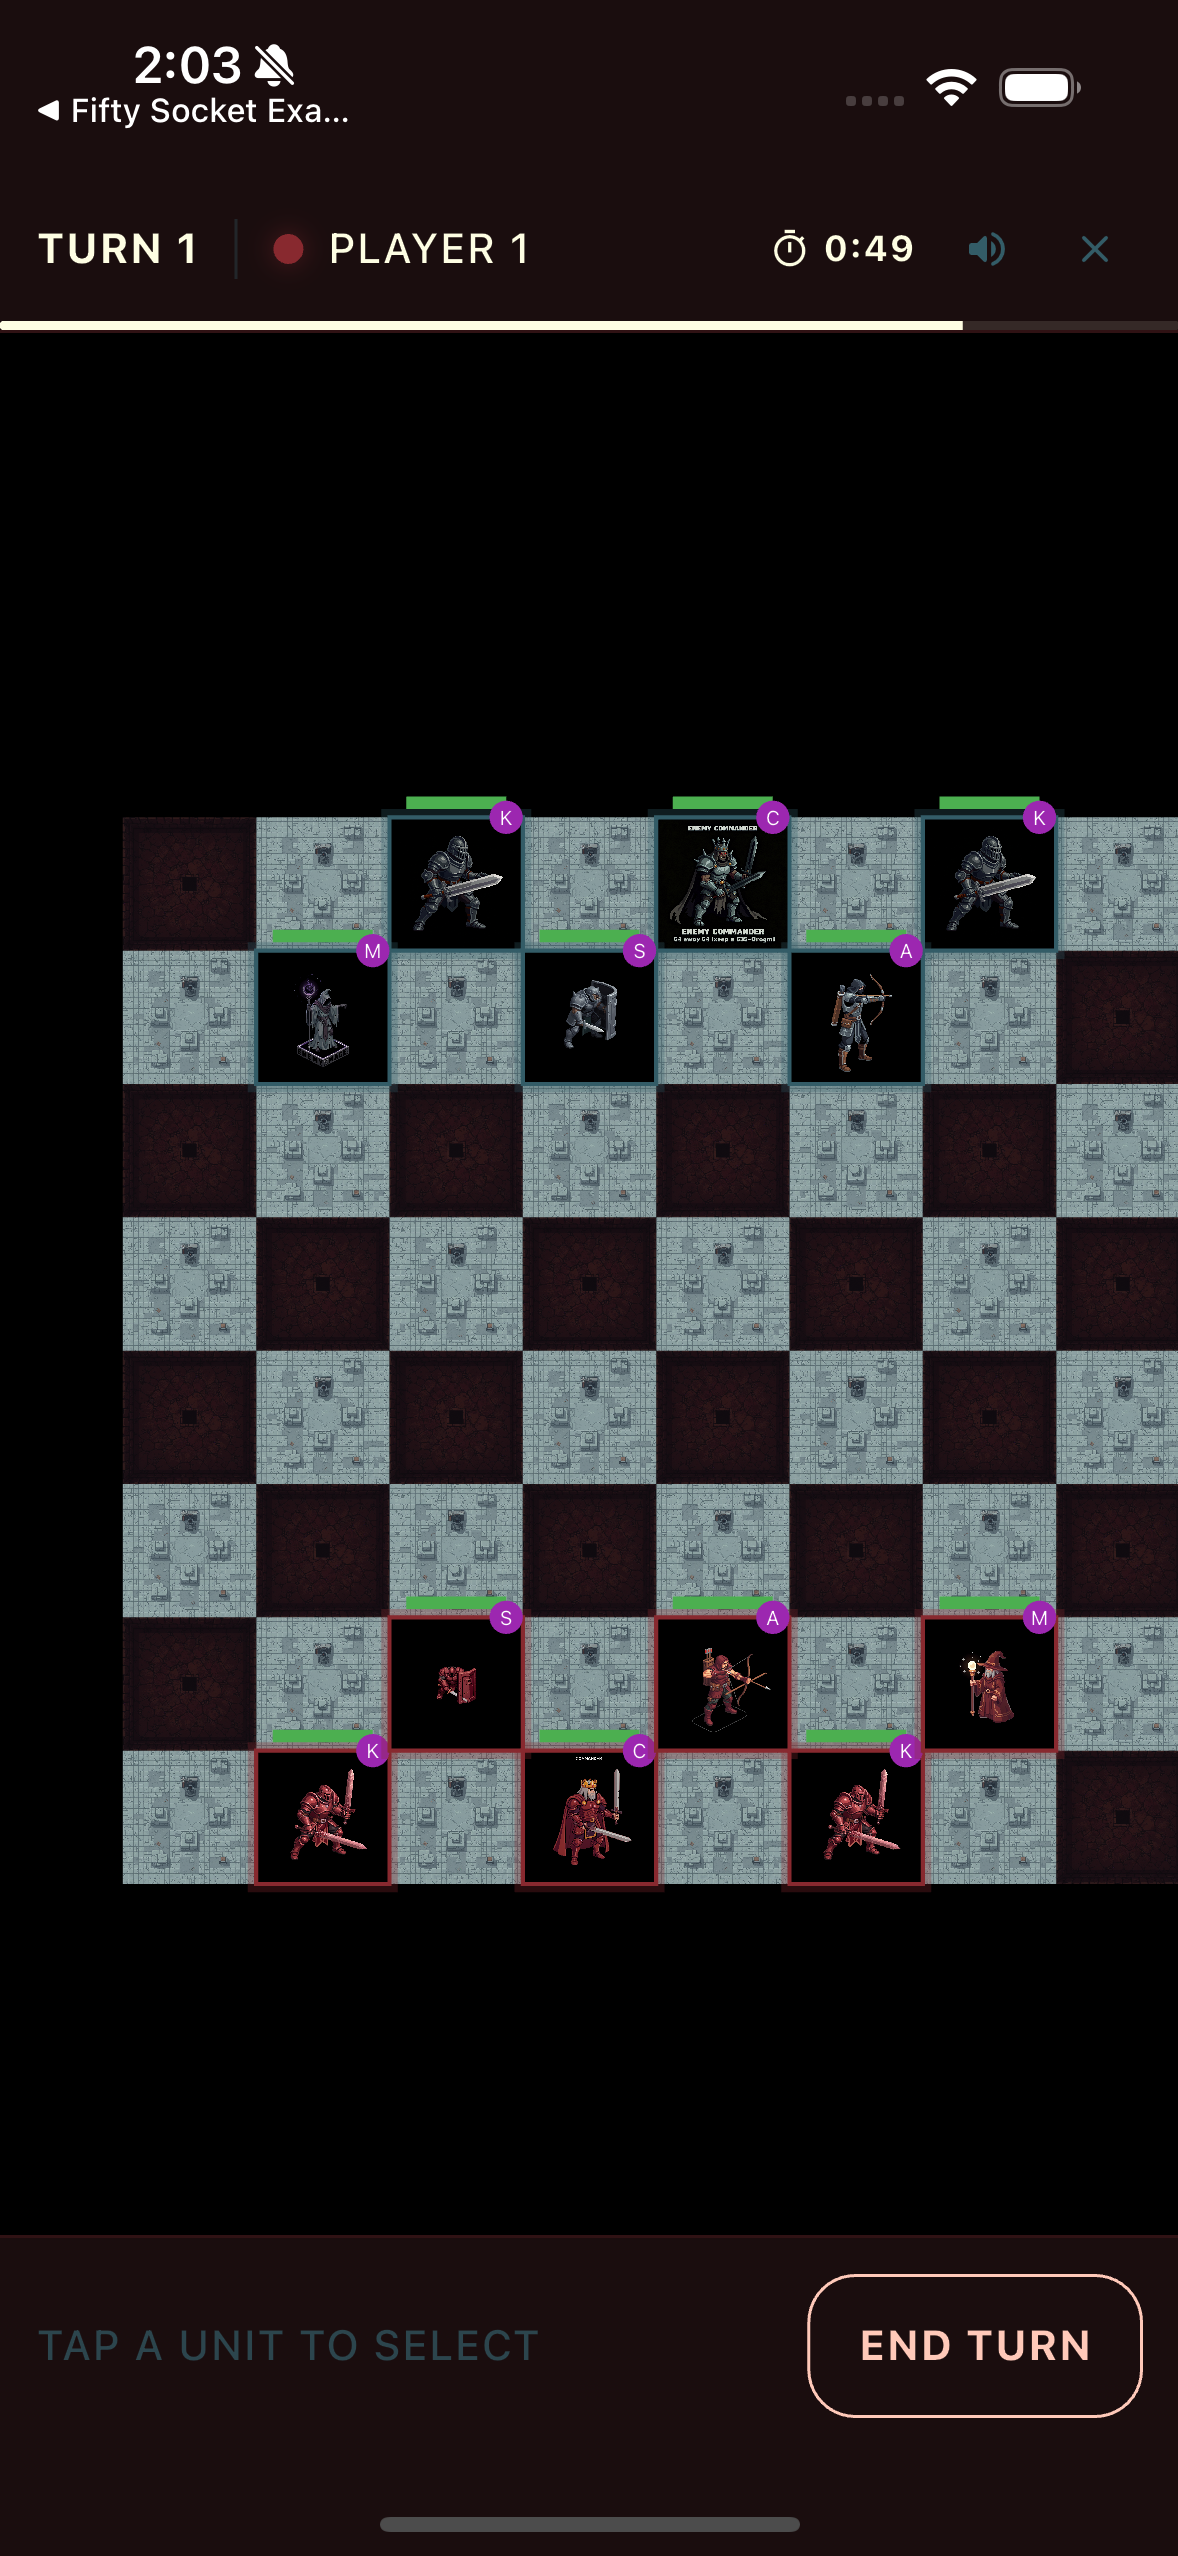
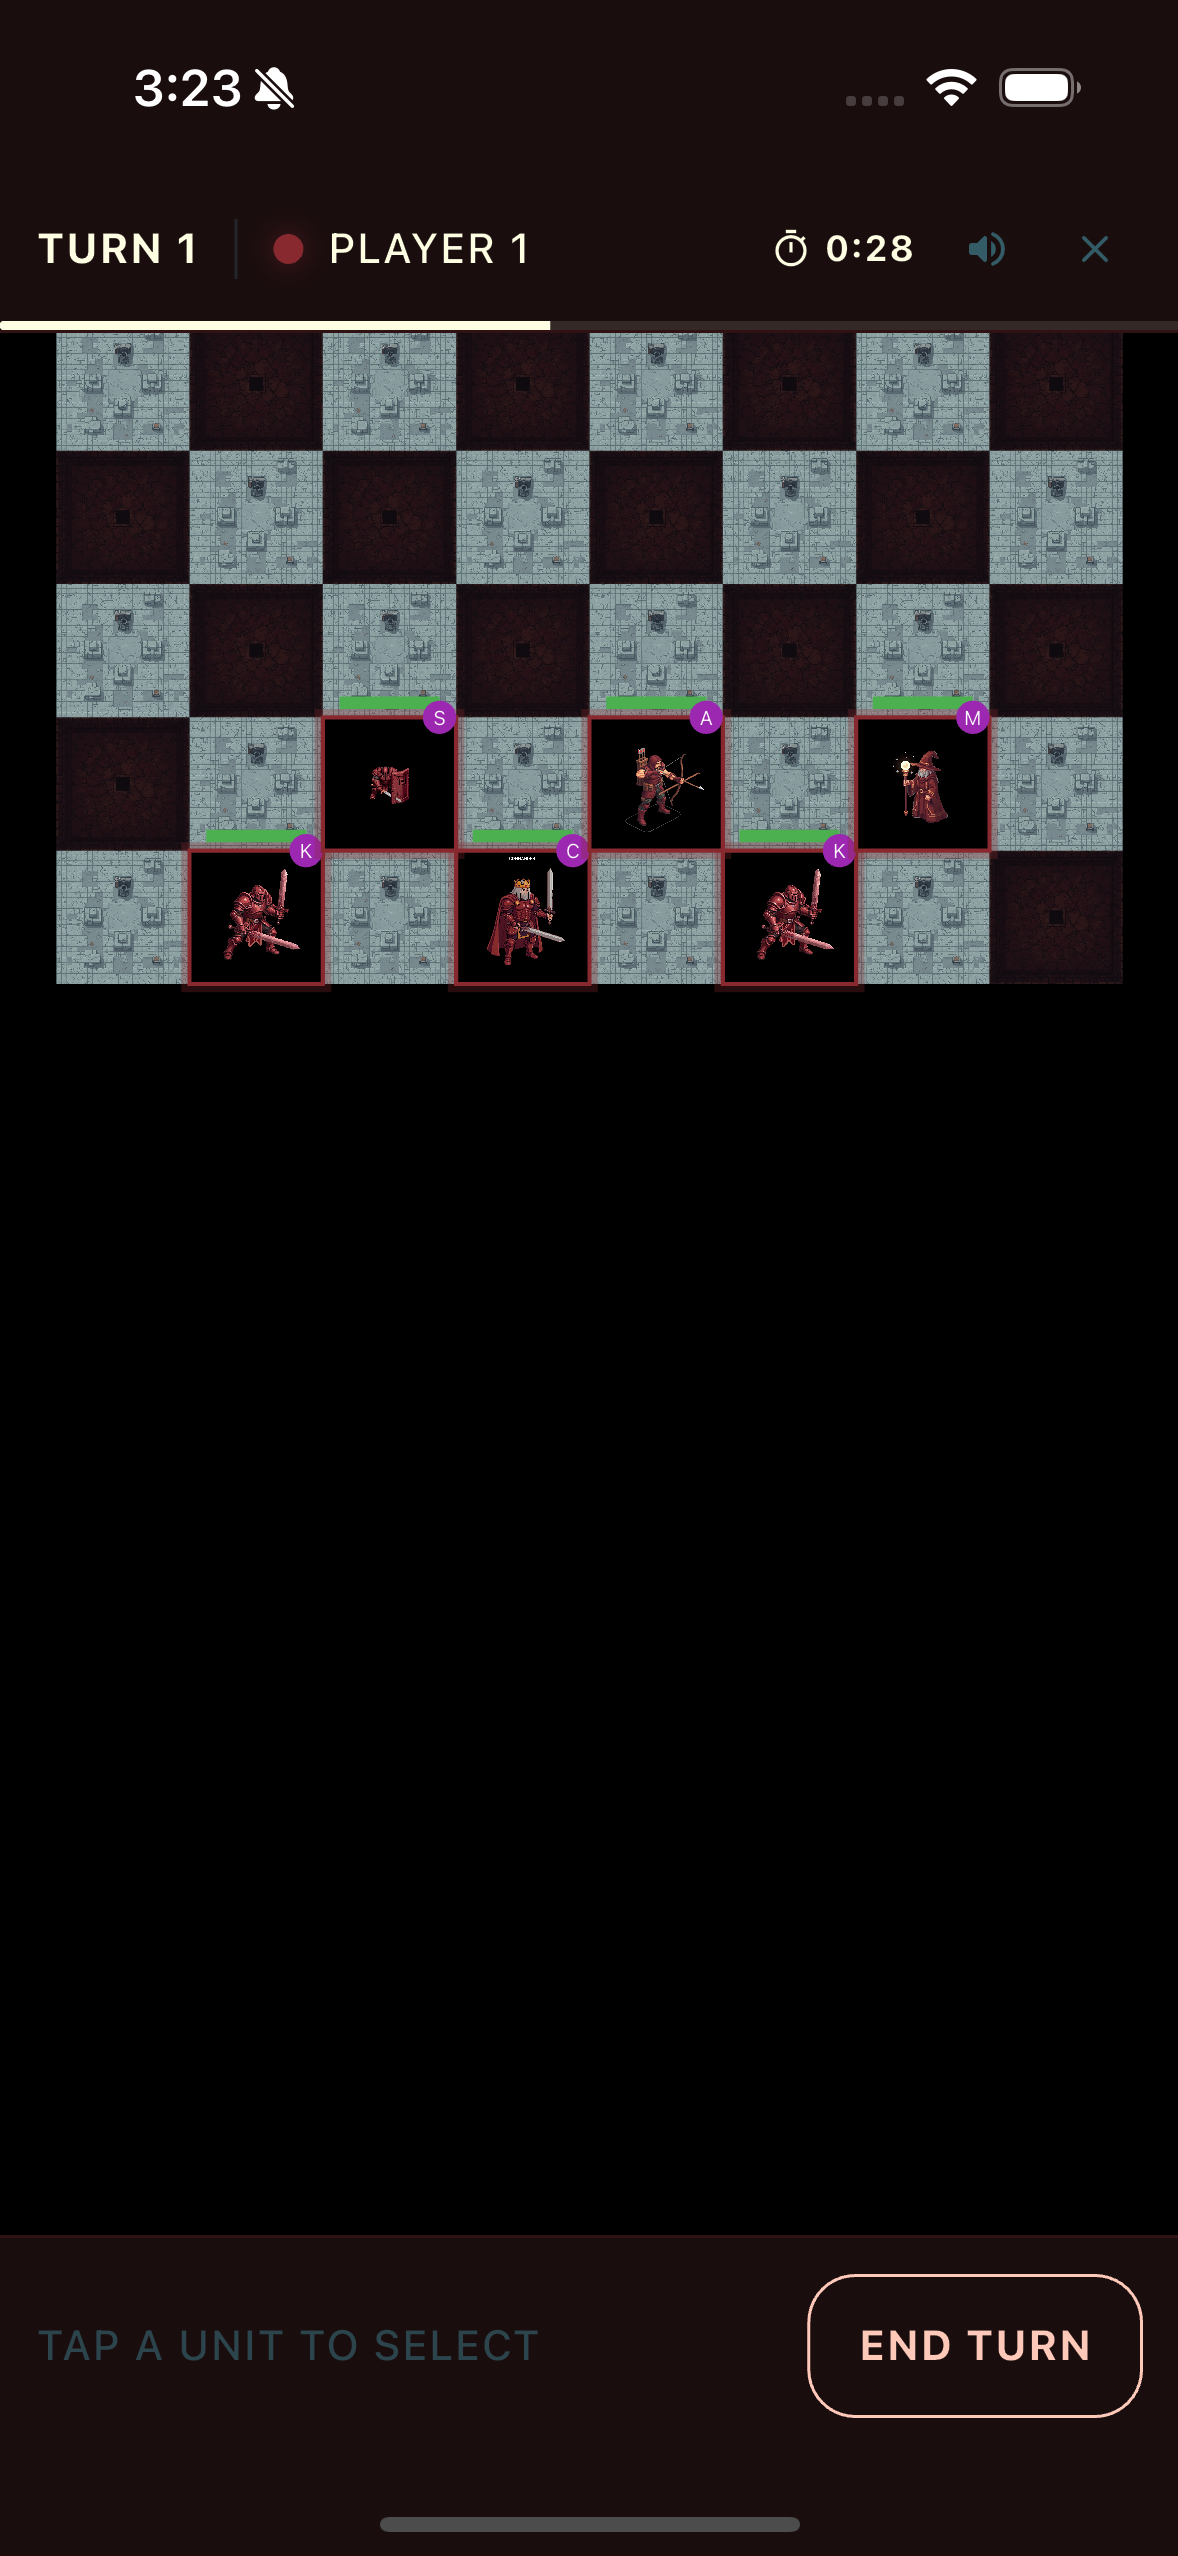
fix(battle): center grid on board and clip game canvas to layout bounds
Center camera on tile grid midpoint (4,4) instead of entity bounding box
so the board appears visually centered on game start. Wrap EngineBoardWidget
in ClipRect to prevent Flame canvas from rendering over the HUD when panning.

Update screenshots and fix README paths from docs/screenshots/ to screenshots/.

diff --git a/apps/tactical_grid/lib/features/battle/views/widgets/engine_board_widget.dart b/apps/tactical_grid/lib/features/battle/views/widgets/engine_board_widget.dart
@@ -255,7 +255,11 @@ class _EngineBoardWidgetState extends State<EngineBoardWidget> {
     _centerCamera();
   }
 
-  /// Zooms out and centres the camera.
+  /// Zooms out and centres the camera on the tile grid.
+  ///
+  /// Centres on the grid midpoint (4 tiles in from each edge) rather than the
+  /// entity bounding box, so that the full 8x8 board is visually centred even
+  /// when units don't occupy the outer columns.
   ///
   /// Retries if the engine camera is not yet initialised (e.g. web where
   /// asset loading takes longer than the post-frame callback delay).
@@ -263,7 +267,10 @@ class _EngineBoardWidgetState extends State<EngineBoardWidget> {
     try {
       _controller.zoomOut();
       _controller.zoomOut();
-      _controller.centerMap();
+      // Centre on the tile grid midpoint instead of the entity bounding box.
+      const tileSize = world_engine.FiftyWorldConfig.blockSize;
+      _controller.game.cameraComponent.viewfinder.position =
+          world_engine.Vector2(4 * tileSize, 4 * tileSize);
     } catch (_) {
       // Camera not ready yet; retry shortly.
       Future.delayed(const Duration(milliseconds: 300), _centerCamera);

diff --git a/apps/tactical_grid/lib/features/battle/views/battle_page.dart b/apps/tactical_grid/lib/features/battle/views/battle_page.dart
@@ -54,7 +54,7 @@ class _BattlePageState extends State<BattlePage> {
       body: Column(
         children: [
           const TurnIndicator(),
-          const Expanded(child: EngineBoardWidget()),
+          const Expanded(child: ClipRect(child: EngineBoardWidget())),
           const UnitInfoPanel(),
         ],
       ),

diff --git a/apps/tactical_grid/README.md b/apps/tactical_grid/README.md
@@ -4,7 +4,7 @@ Turn-based tactical combat on a grid — a showcase application for the full Fif
 
 | Menu | Battle | Settings | Achievements |
 |:----:|:------:|:--------:|:------------:|
-| <img src="docs/screenshots/menu_dark.png" width="200"> | <img src="docs/screenshots/battle_dark.png" width="200"> | <img src="docs/screenshots/settings_dark.png" width="200"> | <img src="docs/screenshots/achievements_dark.png" width="200"> |
+| <img src="screenshots/menu_dark.png" width="200"> | <img src="screenshots/battle_dark.png" width="200"> | <img src="screenshots/settings_dark.png" width="200"> | <img src="screenshots/achievements_dark.png" width="200"> |
 
 ---
 
